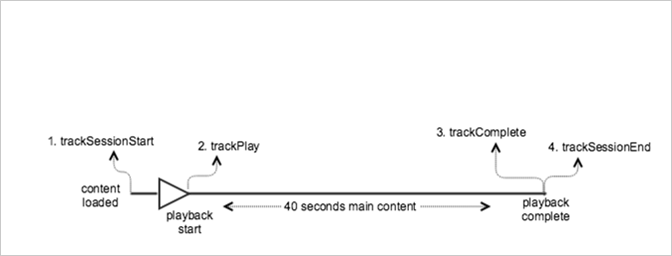
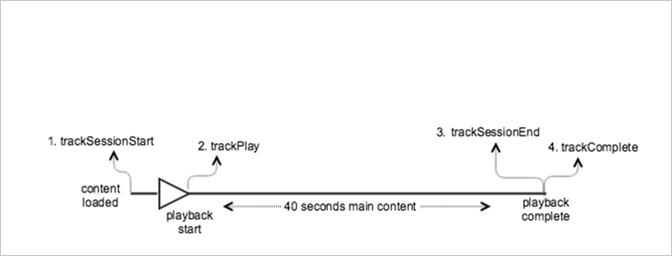
update to screenshot

Changed region(s): [[0.8125, 0.5312, 0.9688, 0.5938], [0.6562, 0.5, 0.8125, 0.5625]]

diff --git a/help/use-cases/tracking-scenarios/vod-no-intrs-details.md b/help/use-cases/tracking-scenarios/vod-no-intrs-details.md
@@ -99,17 +99,17 @@ _mediaHeartbeat.trackPlay();
 ....... 
 ....... 
 
-// 3. Call trackComplete() when the playback reaches the end,  
-//    i.e., when the media completes and finishes playing.  
-_mediaHeartbeat.trackComplete(); 
-
-........ 
-........ 
-
-// 4. Call trackSessionEnd() when the playback session is over.  
-//    This method must be called even if the user does not watch  
-//    the media to completion.  
+// 3. Call trackSessionEnd() when the playback session ends prior to the  
+//    media completing to the finish. This method must be called when   
+//    playback ends if the user does not watch the media to completion. When trackSessionEnd is used, trackComplete should not be called. 
 _mediaHeartbeat.trackSessionEnd(); 
+
+........ 
+........ 
+
+// 4. Call trackComplete() when the playback reaches the end and   
+//    completes, i.e., when the media finishes because it is played to completion. When trackComplete is used, trackSessionEnd does not need to be called.
+_mediaHeartbeat.trackComplete(); 
 
 ........ 
 ........ 
